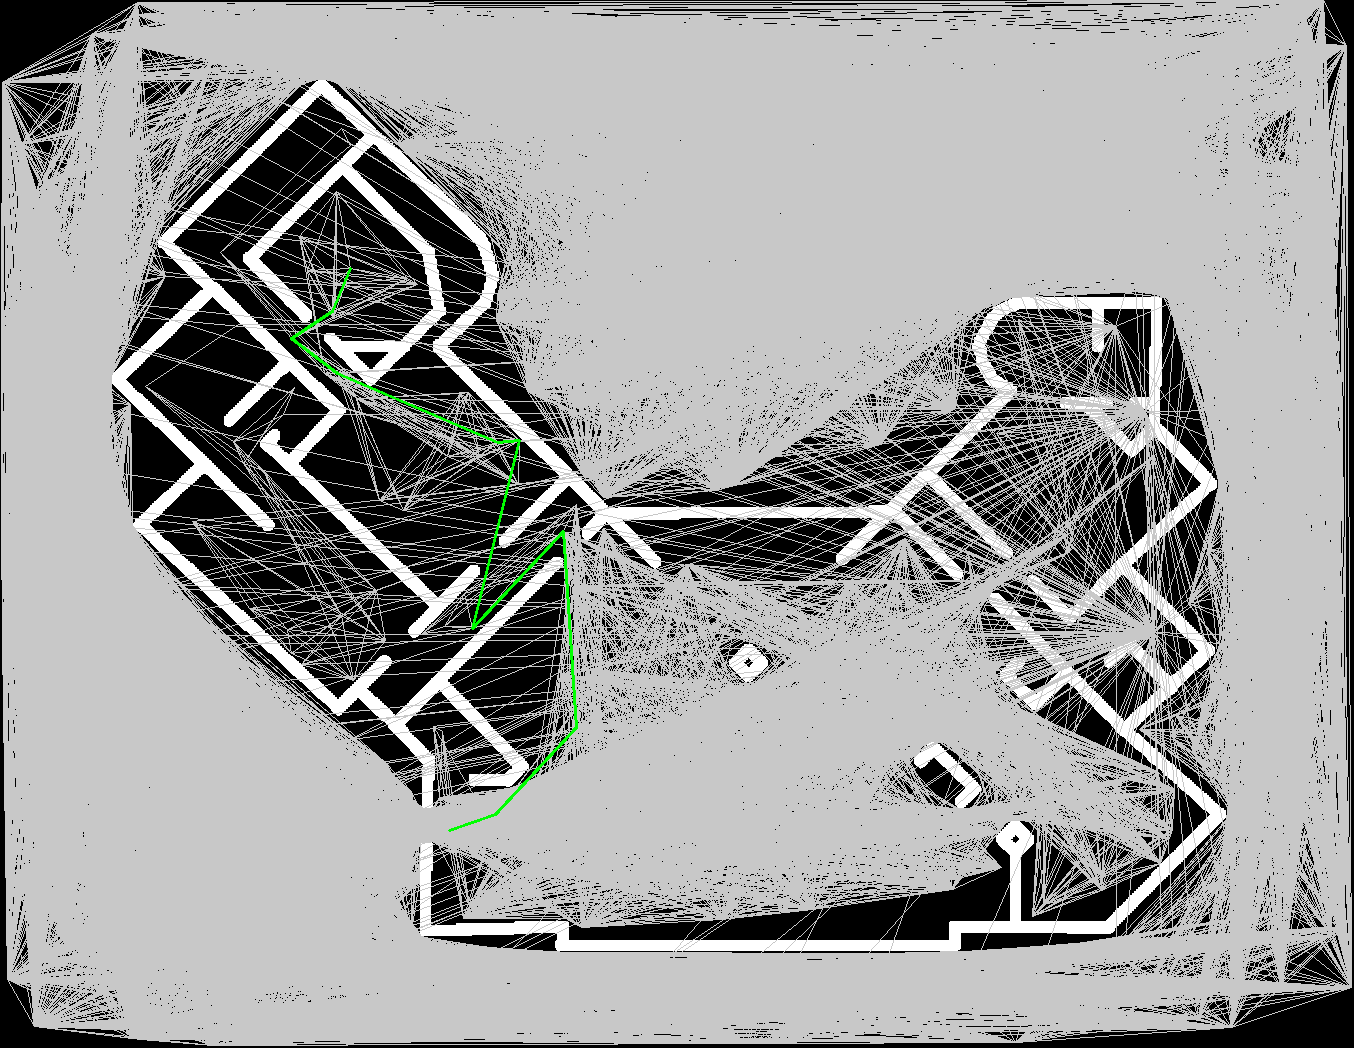
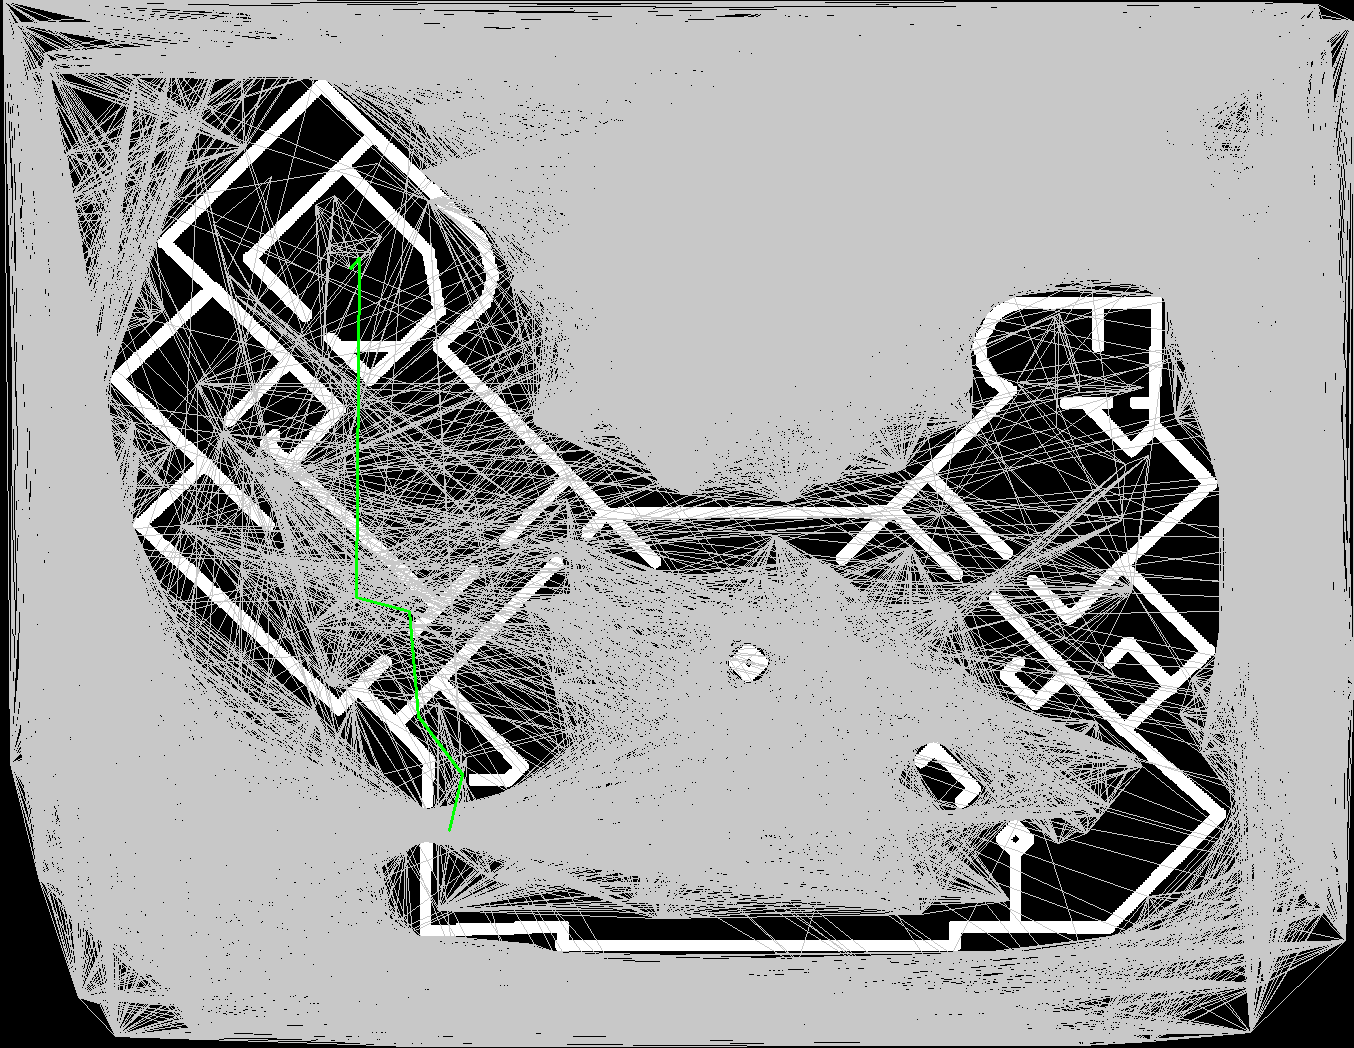
Modified RTT code, generates minimum spanning tree and shortest path

Changed region(s): [[0.0, 0.0, 1.0, 1.0], [0.7134, 0.916, 0.7445, 0.9466]]

diff --git a/ros2_ws/Occupancy Maps/mst-path-finding.py b/ros2_ws/Occupancy Maps/mst-path-finding.py
@@ -56,49 +56,43 @@ def kruskal_mst(points, binary_map):
     
     return mst_edges
 
-def dijkstra_shortest_path(points, mst_edges, start_idx, goal_idx):
-    # Build graph from MST edges
+def find_path_through_mst(points, mst_edges, start_idx, goal_idx):
+    # Build adjacency list representation of MST
     graph = {i: [] for i in range(len(points))}
     for u, v, weight in mst_edges:
         graph[u].append((v, weight))
         graph[v].append((u, weight))
     
-    # Dijkstra's algorithm
-    pq = [(0, start_idx)]
-    distances = {i: float('inf') for i in range(len(points))}
-    distances[start_idx] = 0
-    predecessors = {i: None for i in range(len(points))}
-
-    while pq:
-        current_distance, current_node = heappop(pq)
-        
-        if current_node == goal_idx:
+    # BFS to find path between start and goal
+    visited = set()
+    parent = {start_idx: None}
+    queue = [start_idx]
+    visited.add(start_idx)
+    
+    while queue:
+        current = queue.pop(0)
+        if current == goal_idx:
             break
-
-        # If we've found a longer path, skip
-        if current_distance > distances[current_node]:
-            continue
-
-        for neighbor, neighbor_distance in graph[current_node]:
-            distance_through_current = current_distance + neighbor_distance
-            if distance_through_current < distances[neighbor]:
-                distances[neighbor] = distance_through_current
-                predecessors[neighbor] = current_node
-                heappush(pq, (distance_through_current, neighbor))
-
+        
+        for neighbor, _ in graph[current]:
+            if neighbor not in visited:
+                visited.add(neighbor)
+                parent[neighbor] = current
+                queue.append(neighbor)
+    
     # Reconstruct path
     path = []
     node = goal_idx
     while node is not None:
         path.append(points[node])
-        node = predecessors[node]
+        node = parent.get(node)
     path.reverse()
-
+    
     return path
 
 def main():
     map_path = 'dilated_occupancy_map.png'
-    num_samples = 1000
+    num_samples = 500
 
     start_point = (449, 830)
     goal_point = (350, 268)
@@ -115,31 +109,25 @@ def main():
     # Generate Minimum Spanning Tree
     mst_edges = kruskal_mst(samples, binary_map)
 
-    # Find shortest path
-    shortest_path = dijkstra_shortest_path(samples, mst_edges, len(samples) - 2, len(samples) - 1)
+    # Find path through MST
+    shortest_path = find_path_through_mst(samples, mst_edges, len(samples) - 2, len(samples) - 1)
 
     # Visualize result
     rrt_world = cv2.cvtColor(binary_map, cv2.COLOR_GRAY2BGR)
     
-    # Draw MST edges in orange
+    # Draw MST edges
     for u, v, _ in mst_edges:
         pt1 = samples[u]
         pt2 = samples[v]
-        cv2.line(rrt_world, pt1, pt2, (0, 165, 255), 1)  # Orange edges (BGR color space)
+        cv2.line(rrt_world, pt1, pt2, (200, 200, 200), 1)  # Light gray edges
 
-    # Draw shortest path in magenta
+    # Draw shortest path
     if shortest_path:
         for i in range(len(shortest_path) - 1):
-            cv2.line(rrt_world, shortest_path[i], shortest_path[i + 1], (255, 0, 255), 2)  # Magenta path
-
-    # Mark start and goal points
-    # Start point: Blue circle
-    cv2.circle(rrt_world, start_point, 8, (255, 0, 0), -1)  # Filled blue circle
-    # Goal point: Red circle
-    cv2.circle(rrt_world, goal_point, 8, (0, 0, 255), -1)  # Filled red circle
+            cv2.line(rrt_world, shortest_path[i], shortest_path[i + 1], (0, 255, 0), 2)  # Green path
 
     cv2.imshow("Path through Minimum Spanning Tree", rrt_world)
-    cv2.imwrite("mst_path_modified.png", rrt_world)
+    cv2.imwrite("mst_path.png", rrt_world)
     cv2.waitKey(0)
     cv2.destroyAllWindows()
 
